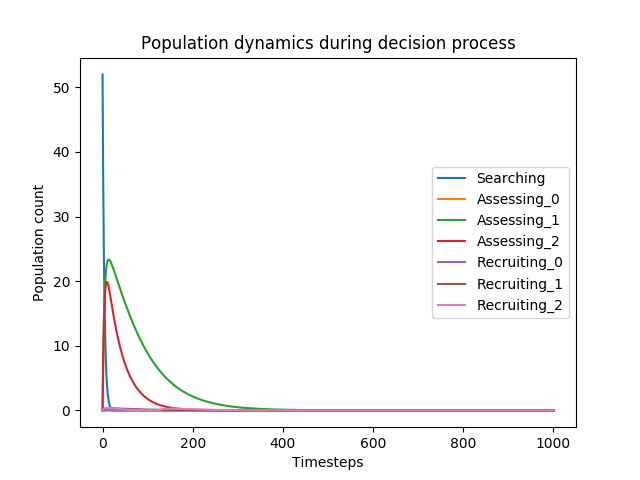
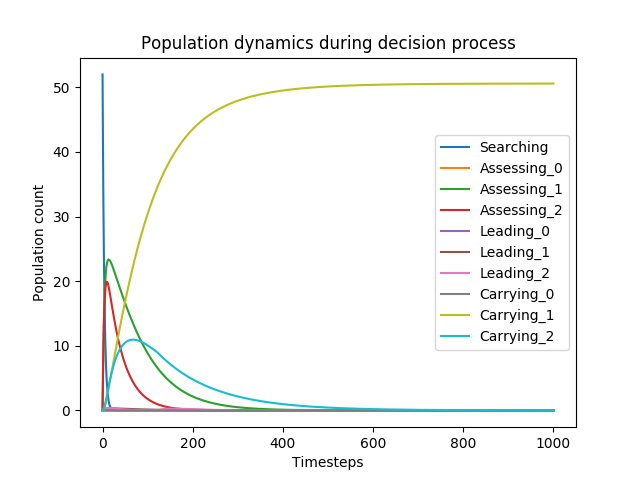
Fixes model plotting

diff --git a/saldyt_2018/alternative_switching.py b/saldyt_2018/alternative_switching.py
@@ -130,11 +130,11 @@ intersteps = 10
 ts = np.linspace(0, N, N * intersteps)
 Ps = odeint(dPopulation_dt, Population0, ts)
 for do_passive in [True, False]:
-    for i in range(1 + M * 3):
+    for i in range(1 + M * 4):
         if i == 0:
             label = 'Searching'
         else:
-            label = ['Assessing', 'Recruiting', 'Passive'][(i - 1) // M]
+            label = ['Assessing', 'Leading', 'Carrying', 'Passive'][(i - 1) // M]
             label += '_' + str((i - 1) % M)
         pop = Ps[:,i]
         if do_passive:

diff --git a/saldyt_2018/split_recruiters.py b/saldyt_2018/split_recruiters.py
@@ -129,11 +129,11 @@ intersteps = 10
 ts = np.linspace(0, N, N * intersteps)
 Ps = odeint(dPopulation_dt, Population0, ts)
 for do_passive in [True, False]:
-    for i in range(1 + M * 3):
+    for i in range(1 + M * 4):
         if i == 0:
             label = 'Searching'
         else:
-            label = ['Assessing', 'Recruiting', 'Passive'][(i - 1) // M]
+            label = ['Assessing', 'Leading', 'Carrying', 'Passive'][(i - 1) // M]
             label += '_' + str((i - 1) % M)
         pop = Ps[:,i]
         if do_passive:
